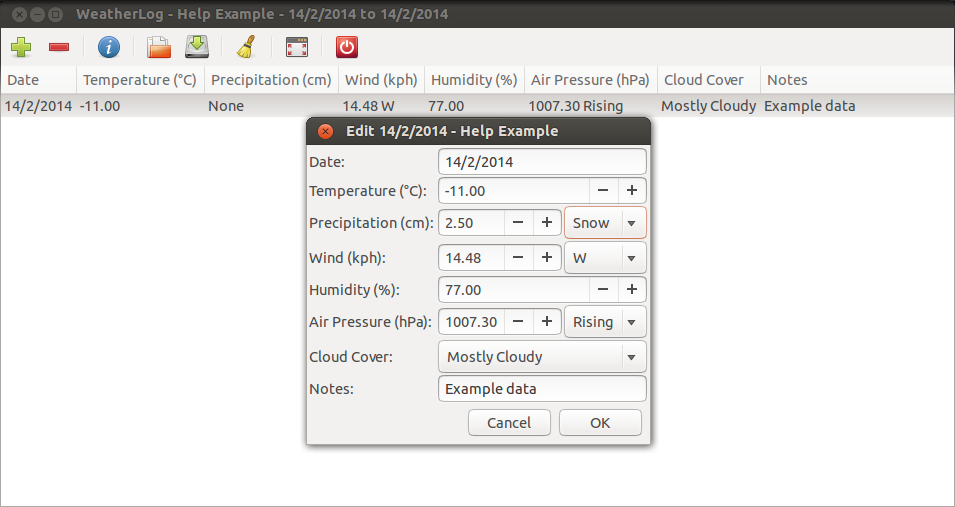
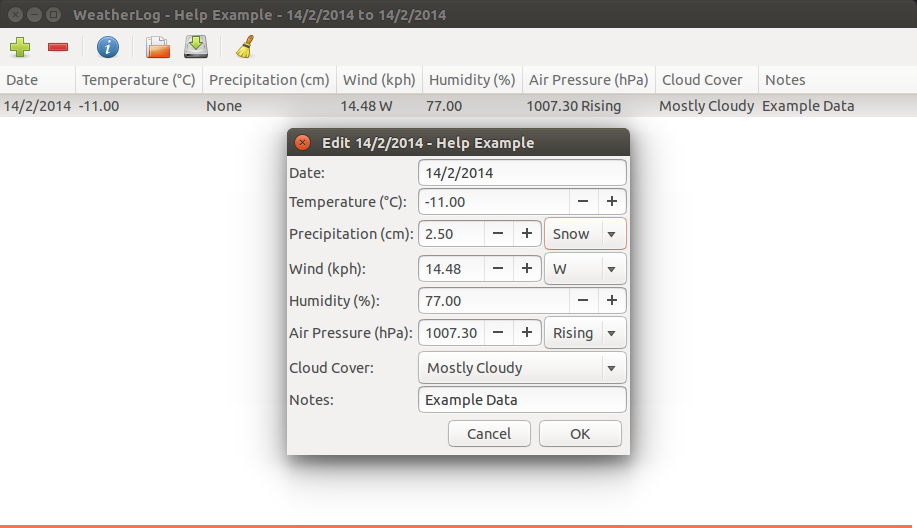
Updated help images. Fixes #35.

Changed region(s): [[0.0, 0.0, 1.0, 0.9172], [0.0, 0.9763, 1.0, 1.0]]

diff --git a/weatherlog_resources/help/profiles.html b/weatherlog_resources/help/profiles.html
@@ -35,16 +35,15 @@
         
         <h1>Removing Profiles</h1>
         
-        <p>If you created a profile you no longer want, you can delete it from the Remove Profile window, available from the Profiles menu or by
-        pressing Control-Shift-D. This window allows for multiple profiles to be selected, so you can delete more than one profile at a time. Note
-        that you cannot delete the current profile.</p>
+        <p>If you created a profile you no longer want, you can delete it from the Remove Profile window, available from the Profiles menu. This window
+        allows for multiple profiles to be selected, so you can delete more than one profile at a time. Note that you cannot delete the current profile.</p>
         
         <p><img src="images/remove_profile.png" /></p>
         
         <h1>Moving and Copying Data</h1>
         
         <p>If you entered data into one profile that you later decided that you want in another, or if you want to copy data to another profile for
-        a different use than the first, you can use the Copy and Move Data features. These features, available in the Profile menu, each have two options;
+        a different use than the first, you can use the Copy and Move Data features. These features, available in the Profile menu, have two options;
         you can either copy/move the data to a new profile, or to an already existing one.</p>
         
         <p>When copying or moving to a new profile, you will need to first enter a new profile name to use. After you do this you can select the data to put

diff --git a/weatherlog_resources/help/exporting_data.html b/weatherlog_resources/help/exporting_data.html
@@ -15,13 +15,12 @@
         <h1>Exporting Data</h1>
         
         <p>WeatherLog can export the data entered, for if you want to have a backup of the data or share it with someone else.
-        To export data, either click the save button on the toolbar, select Export from the Weather menu, or press Control-S. Then enter
+        To export data, either click the save button on the toolbar, select Export from the File menu, or press Control-S. Then enter
         the filename to use for the exported file.</p>
         
         <p>However, this is only really useful if the only application you want to use this data with is WeatherLog. That's why there
-        are two more options, for exporting data to HTML or CSV. Export to HTML, available from the Weather -&gt; Export to menu, formats
-        the data into a table that can be viewed in a web browser. Export to CSV, in the same menu, formats the data as CSV (comma-separated values)
-        for use in a spreadsheet program.</p>
+        are two more options, for exporting data to HTML or CSV. To export to CSV or HTML, click on the respective button in the file
+        chooser window. Data will be formatted properly in the choosen format before it is saved.</p>
         
         <p>If you want to easily share the data with others, you can also export the data to Pastebin, as either raw data or formatted as
         HTML or CSV.</p>

diff --git a/weatherlog_resources/help/importing_data.html b/weatherlog_resources/help/importing_data.html
@@ -15,11 +15,11 @@
         <h1>Importing Data</h1>
         
         <p>The exported data is useless if you can't do anything with it! That's why there's also an import feature, to put the data back
-        into WeatherLog. Importing data is just as simple as exporting it; click the open button in the toolbar, select Import from the Weather
+        into WeatherLog. Importing data is just as simple as exporting it; click the open button in the toolbar, select Import from the File
         menu, or press Control-O. This will remove all of the data in the current profile and replace it with the imported data.</p>
         
         <p>There's another option for importing the data; if you don't want the new data to replace the data in the current profile, select
-        Import and Merge from the Weather menu or press Shift-Alt-O. This differs from the other import feature in that it combines both sets of data.
+        Import and Merge from the File menu. This differs from the other import feature in that it combines both sets of data.
         If there are no conflicting dates, where a date appears in both the original and new sets of data, then all of the data will be combined into one.
         However, if there is a date that appears in both sets, then only the data corrosponding to that date in the original set will be added.<p>
         

diff --git a/weatherlog_resources/help/viewing_info.html b/weatherlog_resources/help/viewing_info.html
@@ -28,11 +28,11 @@
         <p><img src="images/general_info.png" /></p>
         
         <p>Here you can see an overview of the info. But what if you need something more specific that isn't shown here? You can also see information
-        about each column by going into the More Info submenu in the Info menu, or by pressing the appropriate key combination:</p>
+        about each column by clicking on each of the tabs:</p>
 
         <p><img src="images/humidity_info.png" /></p>
         
-        <p>Each window will show different types of information, depending on the column.</p>
+        <p>Each tab will show different types of information, depending on the column.</p>
         
         <p>Clicking on the Export button allows you to save the data to an HTML file.</p>
         

diff --git a/weatherlog_resources/help/viewing_charts.html b/weatherlog_resources/help/viewing_charts.html
@@ -15,8 +15,7 @@
         <h1>Viewing Charts</h1>
         
         <p>In addition to the Info windows that show just the average, median, range, etc. of a set of values, WeatherLog also has a feature
-        to show a chart of how each value compares to the stats. To use this feature, select which field you would like to see the chart on from the 
-        Info -> Charts menu.</p>
+        to show a chart of how each value compares to the stats. To use this feature, select the Charts item in the Info menu.</p>
         
         <img src="images/chart.png" />
         

diff --git a/weatherlog_resources/io.py b/weatherlog_resources/io.py
@@ -143,6 +143,8 @@ def get_metadata(main_dir, last_profile):
         # Show the error message.
         # This only shows if the error occurred when reading from the file.
         print("Error reading metadata file (IOError).")
+        creation = "Error"
+        modified = "Error"
     
     return creation, modified
 
